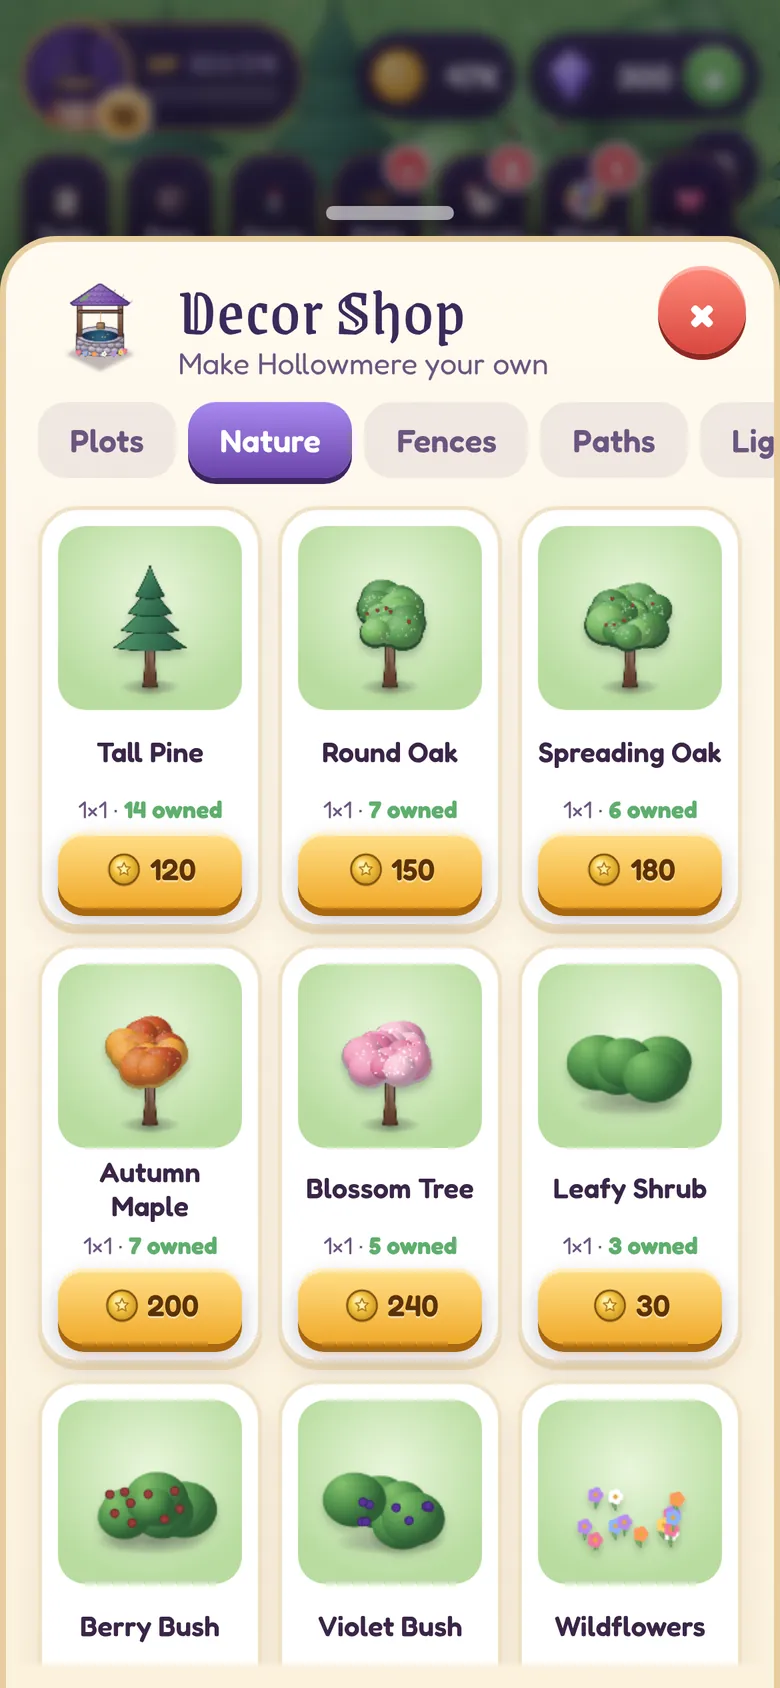
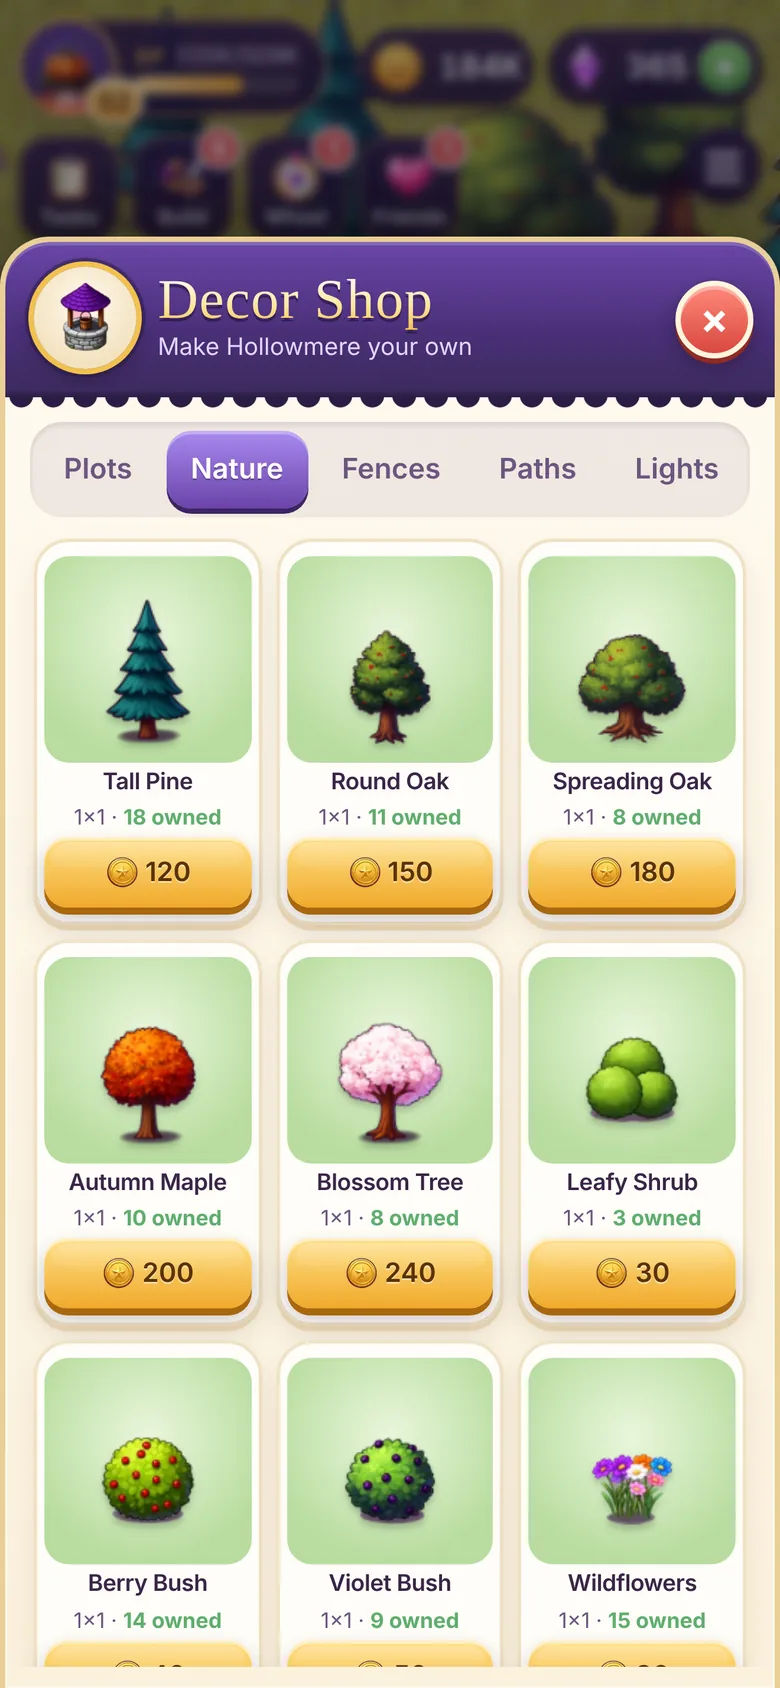
Hollowmere page: new screenshots and copy for launch
Claude-Session: https://claude.ai/code/session_01Tfa6LFN4oXrGjChDfRpdjx

diff --git a/hollowmere/index.html b/hollowmere/index.html
@@ -4,7 +4,7 @@
 <meta charset="utf-8">
 <meta name="viewport" content="width=device-width, initial-scale=1">
 <title>Hollowmere: Cozy Witch Farm</title>
-<meta name="description" content="Hollowmere: Cozy Witch Farm is a cozy, all-ages farming game for iPhone and iPad. Grow magical crops, keep animals, brew potions, fish, mine crystals and visit friends' farms. Support, FAQ and privacy.">
+<meta name="description" content="Hollowmere: Cozy Witch Farm is a cozy, all-ages farming game for iPhone and iPad. Grow enchanted crops, brew potions, run an apothecary, fish, explore the mine and visit friends' farms. Support, FAQ and privacy.">
 <link rel="canonical" href="https://studiohgames.com/hollowmere/">
 <link rel="icon" href="/assets/brand/favicon.ico" sizes="48x48">
 <link rel="icon" href="/assets/brand/icon.svg" type="image/svg+xml">
@@ -16,7 +16,7 @@
 <meta property="og:type" content="website">
 <meta property="og:site_name" content="Studio H">
 <meta property="og:title" content="Hollowmere: Cozy Witch Farm">
-<meta property="og:description" content="A cozy, all-ages witch farming game for iPhone and iPad. Grow magical crops, keep animals, brew potions and restore Hazel's farm. Coming soon to the App Store.">
+<meta property="og:description" content="A cozy, all-ages witch farming game for iPhone and iPad. Grow enchanted crops, brew potions and run a little apothecary. On the App Store November 6, 2026.">
 <meta property="og:url" content="https://studiohgames.com/hollowmere/">
 <meta property="og:image" content="https://studiohgames.com/hollowmere/og.png">
 <meta property="og:image:width" content="1200">
@@ -24,7 +24,7 @@
 <meta property="og:image:alt" content="Hollowmere: Cozy Witch Farm, a witch's cottage and a field of glowing magical crops">
 <meta name="twitter:card" content="summary_large_image">
 <meta name="twitter:title" content="Hollowmere: Cozy Witch Farm">
-<meta name="twitter:description" content="A cozy, all-ages witch farming game for iPhone and iPad. Coming soon to the App Store.">
+<meta name="twitter:description" content="A cozy, all-ages witch farming game for iPhone and iPad. On the App Store November 6, 2026.">
 <meta name="twitter:image" content="https://studiohgames.com/hollowmere/og.png">
 <link rel="preconnect" href="https://fonts.googleapis.com">
 <link rel="preconnect" href="https://fonts.gstatic.com" crossorigin>
@@ -54,21 +54,21 @@
     <div class="wrap">
       <h1 id="game-title">Hollowmere</h1>
       <p class="subtitle">Cozy Witch Farm</p>
-      <p class="pitch">Play Hazel, a young witch who restores an overgrown farm on the edge of a little village.
-        Grow magical crops, care for animals, brew potions and make the whole valley your own.</p>
+      <p class="pitch">Welcome to Hollowmere, a sleepy valley where Hazel, a young witch, brings an old, overgrown farm back to life.
+        Plant enchanted crops, brew potions, care for your animals and open a little apothecary for the townsfolk, all at your own pace.</p>
       <ul class="chips" aria-label="At a glance">
         <li>iPhone and iPad</li>
         <li>All ages</li>
         <li>Free to play</li>
-        <li>Android later</li>
+        <li>No energy bar</li>
       </ul>
       <div class="store-row">
         <!-- App Store badge: set APP_STORE_URL in /assets/site.js to turn this into the real link. -->
-        <a class="store-badge" href="#" data-app-store="hollowmere" aria-disabled="true" aria-label="Coming soon to the App Store">
+        <a class="store-badge" href="#" data-app-store="hollowmere" aria-disabled="true" aria-label="Coming November 6, 2026 to the App Store">
           <svg viewBox="0 0 24 24" aria-hidden="true"><path fill="currentColor" d="M16.4 12.6c0-2.4 2-3.6 2.1-3.7-1.2-1.7-3-1.9-3.6-2-1.5-.2-3 .9-3.8.9-.8 0-2-.9-3.3-.9-1.7 0-3.3 1-4.2 2.6-1.8 3.1-.5 7.7 1.3 10.2.9 1.2 1.9 2.6 3.2 2.6 1.3-.1 1.8-.8 3.3-.8 1.6 0 2 .8 3.4.8 1.4 0 2.3-1.3 3.1-2.5 1-1.4 1.4-2.8 1.4-2.9 0 0-2.8-1.1-2.9-4.3zM13.9 5.2c.7-.9 1.2-2 1-3.2-1 0-2.3.7-3 1.6-.7.8-1.3 2-1.1 3.1 1.1.1 2.3-.6 3.1-1.5z"/></svg>
-          <span><small>Coming soon to the</small><b>App Store</b></span>
+          <span><small>Nov 6 on the</small><b>App Store</b></span>
         </a>
-        <span class="store-note" data-store-note="hollowmere">Free to play on iPhone and iPad. Android later.</span>
+        <span class="store-note" data-store-note="hollowmere">Launching on the App Store Friday, November 6, 2026. Free to play on iPhone and iPad.</span>
       </div>
     </div>
   </section>
@@ -80,33 +80,43 @@
       <div class="features">
         <article class="card feature">
           <div class="icon" aria-hidden="true"><svg viewBox="0 0 32 32"><path d="M16 29V15" stroke="#5fae6e" stroke-width="3" stroke-linecap="round" fill="none"/><path d="M16 17C9 17 6 12 6 6c7 0 10 4 10 11z" fill="#5fae6e"/><path d="M16 15c0-6 3-10 10-10 0 6-3 10-10 10z" fill="#8fd18f"/><circle cx="24" cy="24" r="3" fill="#f2c14e"/></svg></div>
-          <h3>Magical farming</h3>
-          <p>Grow 25 magical crops, from Moonpetal and Mandrake to Glowcap, with Silver and Gold quality harvests, sprinklers and fertiliser.</p>
+          <h3>Grow a magical farm</h3>
+          <p>Plant 25 enchanted crops, from quick Moonpetals and Glowcaps to rare crops that take a full day to grow. Place plots, trees and flowers anywhere, and unlock 8 large farm expansions.</p>
         </article>
         <article class="card feature">
           <div class="icon" aria-hidden="true"><svg viewBox="0 0 32 32"><ellipse cx="16" cy="19" rx="8" ry="10" fill="#fffaf0" stroke="#c98f1f" stroke-width="2"/><path d="M8 9l3 3M24 9l-3 3M16 4v4" stroke="#9a7bd0" stroke-width="2.5" stroke-linecap="round"/></svg></div>
-          <h3>Animals and crafting</h3>
-          <p>Keep hens, goats, bees, ducks, sheep and an owl. Brew and cook at the cauldron, oven, kitchen and workbench.</p>
+          <h3>Brew, craft and run your shop</h3>
+          <p>Turn your harvest into potions, preserves and charms at bubbling crafting stations, serve customers at your apothecary counter and fill town requests.</p>
         </article>
         <article class="card feature">
           <div class="icon" aria-hidden="true"><svg viewBox="0 0 32 32"><path d="M5 26l8-14 5 8 3-4 6 10z" fill="#9a7bd0"/><path d="M20 6l2 4 4 .6-3 3 .8 4.4-3.8-2-3.8 2 .8-4.4-3-3 4-.6z" fill="#f2c14e"/></svg></div>
-          <h3>Places and story</h3>
-          <p>Fish 27 kinds of fish, mine glittering crystals, serve town orders and follow a 12-chapter story about the valley.</p>
+          <h3>Explore the valley</h3>
+          <p>Follow a 12-chapter story full of secrets and gentle magic, catch 27 kinds of fish with unlimited fishing, and dig through 8 floors of a glittering mine.</p>
         </article>
         <article class="card feature">
           <div class="icon" aria-hidden="true"><svg viewBox="0 0 32 32"><path d="M6 15L16 6l10 9v11H6z" fill="#5b3b8c"/><rect x="13" y="18" width="6" height="8" rx="1" fill="#f2c14e"/><circle cx="25" cy="25" r="4" fill="#ff6f9f"/></svg></div>
-          <h3>Decorate everything</h3>
-          <p>Rearrange the whole farm: plots, trees, paths, fences, stations and decorations. Choose seasonal themes and a wardrobe for Hazel.</p>
+          <h3>Make it yours</h3>
+          <p>Decorate your farm with over 150 cozy pieces and dress Hazel in robes, hats and accessories from her wardrobe.</p>
+        </article>
+        <article class="card feature">
+          <div class="icon" aria-hidden="true"><svg viewBox="0 0 32 32"><path d="M16 4l3.5 7.2 7.9 1.1-5.7 5.6 1.4 7.9L16 22l-7.1 3.8 1.4-7.9-5.7-5.6 7.9-1.1z" fill="#f2c14e"/><circle cx="25" cy="7" r="2.5" fill="#ff6f9f"/></svg></div>
+          <h3>Animals, Album and achievements</h3>
+          <p>Look after Leili, your farm cat, and raise happy animals. Complete collections in your Album and earn Game Center achievements.</p>
         </article>
         <article class="card feature">
           <div class="icon" aria-hidden="true"><svg viewBox="0 0 32 32"><path d="M16 27S5 20 5 12a6 6 0 0 1 11-3 6 6 0 0 1 11 3c0 8-11 15-11 15z" fill="#ff6f9f"/></svg></div>
-          <h3>Friends</h3>
-          <p>Visit friends' farms by code, send likes and daily gifts, and join weekly community goals. Everyone starts with the computer friend Morwen.</p>
+          <h3>Visit friends</h3>
+          <p>Visit other witches' farms with a friend code, send gifts, leave likes and stamp their guestbooks. Cloud save and Sign in with Apple keep your farm safe.</p>
+        </article>
+        <article class="card feature">
+          <div class="icon" aria-hidden="true"><svg viewBox="0 0 32 32"><path d="M20 5a11 11 0 1 0 7 19A12 12 0 0 1 20 5z" fill="#f2c14e"/><circle cx="9" cy="9" r="2" fill="#9a7bd0"/><circle cx="25" cy="13" r="1.5" fill="#5ee6c8"/></svg></div>
+          <h3>Seasonal events</h3>
+          <p>Limited-time festivals bring event crops, mini-games and special rewards. The Harvest Feast runs November 19 to 30: bake pies, grow Heirloom Cranberries and play Falling Leaves.</p>
         </article>
         <article class="card feature">
           <div class="icon" aria-hidden="true"><svg viewBox="0 0 32 32"><path d="M16 4l10 4v7c0 7-4.5 11-10 13C10.5 26 6 22 6 15V8z" fill="#5ee6c8"/><path d="M11 16l3.5 3.5L21 13" stroke="#2a1d45" stroke-width="2.6" fill="none" stroke-linecap="round" stroke-linejoin="round"/></svg></div>
-          <h3>Fair play</h3>
-          <p>No energy bars and crops never wither. Ads are optional rewarded ads only, and purchases are cosmetic or convenience.</p>
+          <h3>Cozy and fair</h3>
+          <p>No energy bar and crops never wither. Ads are optional rewarded ads only, and purchases are cosmetic or convenience. Nothing in the story is locked behind a payment.</p>
         </article>
       </div>
     </section>
@@ -119,13 +129,14 @@
     </div>
     <div class="gallery-wrap">
       <ul class="gallery">
-        <li><figure><img src="/hollowmere/shots/farm.webp" alt="Hazel's farm: her cottage, a bubbling cauldron and a field of ripe magical crops" width="780" height="1688" loading="lazy"><figcaption>Grow magical crops</figcaption></figure></li>
-        <li><figure><img src="/hollowmere/shots/town.webp" alt="The village of Thimblewick with its fountain, market stalls and cottages" width="780" height="1688" loading="lazy"><figcaption>Visit the village</figcaption></figure></li>
-        <li><figure><img src="/hollowmere/shots/photo-mode.webp" alt="Photo mode framing the farm with a Hollowmere frame" width="780" height="1688" loading="lazy"><figcaption>Snap your farm in photo mode</figcaption></figure></li>
-        <li><figure><img src="/hollowmere/shots/decor-shop.webp" alt="The Decor Shop with trees, shrubs and wildflowers to place on the farm" width="780" height="1688" loading="lazy"><figcaption>Decorate every corner</figcaption></figure></li>
-        <li><figure><img src="/hollowmere/shots/animals.webp" alt="The Animals and Helpers panel with a hen coop, beehive and goat hutch" width="780" height="1688" loading="lazy"><figcaption>Raise friendly animals</figcaption></figure></li>
-        <li><figure><img src="/hollowmere/shots/notice-board.webp" alt="The village notice board with requests from the folk of Thimblewick" width="780" height="1688" loading="lazy"><figcaption>Help the villagers</figcaption></figure></li>
-        <li><figure><img src="/hollowmere/shots/mine.webp" alt="The Glimmer Mine with crystal rocks to break" width="780" height="1688" loading="lazy"><figcaption>Mine glittering crystals</figcaption></figure></li>
+        <li><figure><img src="/hollowmere/shots/farm.webp" alt="Hazel's farm with her cottage, crafting stations and fields of glowing magical crops" width="780" height="1688" loading="lazy"><figcaption>Grow a cozy witch farm</figcaption></figure></li>
+        <li><figure><img src="/hollowmere/shots/decor-shop.webp" alt="The Decor Shop with cozy pieces to place anywhere on the farm" width="780" height="1688" loading="lazy"><figcaption>Decorate every corner</figcaption></figure></li>
+        <li><figure><img src="/hollowmere/shots/wardrobe.webp" alt="The wardrobe, dressing Hazel in a robe, hat and accessories" width="780" height="1688" loading="lazy"><figcaption>Dress your witch</figcaption></figure></li>
+        <li><figure><img src="/hollowmere/shots/town.webp" alt="The village with its fountain, market stalls and friendly townsfolk" width="780" height="1688" loading="lazy"><figcaption>A village full of friends</figcaption></figure></li>
+        <li><figure><img src="/hollowmere/shots/fishing.webp" alt="Hazel fishing at the water's edge with a catch on the line" width="780" height="1688" loading="lazy"><figcaption>Fish the pond and the sea</figcaption></figure></li>
+        <li><figure><img src="/hollowmere/shots/mine.webp" alt="A deep mine floor with glittering gem and ore rocks to break" width="780" height="1688" loading="lazy"><figcaption>Explore the deep mine</figcaption></figure></li>
+        <li><figure><img src="/hollowmere/shots/event.webp" alt="The Harvest Feast event with pies, Heirloom Cranberries and autumn rewards" width="780" height="1688" loading="lazy"><figcaption>Seasonal events all year</figcaption></figure></li>
+        <li><figure><img src="/hollowmere/shots/visit.webp" alt="Visiting a friend's decorated farm, with likes, gifts and a guestbook" width="780" height="1688" loading="lazy"><figcaption>Visit friends' farms</figcaption></figure></li>
       </ul>
     </div>
   </section>
@@ -137,7 +148,24 @@
       <details>
         <summary>Is Hollowmere free?</summary>
         <div><p>Yes. Hollowmere is free to download and play. Optional in-app purchases are cosmetic or for convenience,
-          and everything on the farm can be earned by playing.</p></div>
+          and nothing in the story is locked behind a payment.</p></div>
+      </details>
+      <details>
+        <summary>When does Hollowmere come out?</summary>
+        <div><p>Hollowmere launches on the App Store on <strong>Friday, November 6, 2026</strong>, free to play on iPhone and iPad.
+          An Android version is planned for later.</p></div>
+      </details>
+      <details>
+        <summary>What is Coven Membership?</summary>
+        <div><p>An optional subscription ($6.99 per month or $49.99 per year; prices may vary by country). Members get 10 moonstones a day,
+          an extra counter order slot, an extra queue slot at every station, a monthly members-only outfit piece, a member badge and
+          rewarded-ad bonuses without watching ads. It renews automatically until you cancel, and you can manage or cancel it anytime
+          in your App Store account settings.</p></div>
+      </details>
+      <details>
+        <summary>Do I need to be online or sign in?</summary>
+        <div><p>No. Hollowmere is fully playable offline with no sign-in, and your farm keeps growing while you are away.
+          Go online to visit friends, and use Sign in with Apple if you want cloud save across devices.</p></div>
       </details>
       <details>
         <summary>Is it OK for kids?</summary>
@@ -152,8 +180,8 @@
       </details>
       <details>
         <summary>How do I delete my account?</summary>
-        <div><p>In the game, go to <strong>Settings → Account → Delete account</strong>. This deletes your online account and its
-          data (profile, farm snapshot, friends, gifts and cloud save). You can also email
+        <div><p>In the game, go to <strong>Settings → Account → Delete account</strong>. Tap the button twice to confirm. This deletes your online profile,
+          friend code, farm picture, friends, gifts, likes and cloud save, then your account. Your farm stays on your device. You can also email
           <a href="mailto:developer@studiohgames.com">developer@studiohgames.com</a> with your friend code and we will delete it for you.</p></div>
       </details>
       <details>
